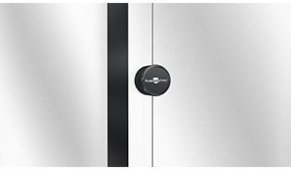
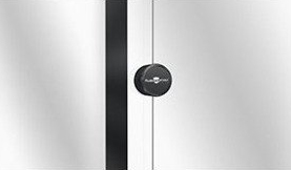
Update tiara-08-10 estetik topuz image and fix live broken link

diff --git a/app/urunler/[slug]/ProductClient.tsx b/app/urunler/[slug]/ProductClient.tsx
@@ -309,7 +309,7 @@ export const PRODUCT_DATA: any = {
         desc: 'Sistemde kanatların camlar ile birleşimi sadece kimyasallar ile değil, cama monte edilen pimler ile sağlanmaktadır. Bu sayede kanatlar, yüksek taşıma kapasitesine sahip olurlar.'
       },
       {
-        img: '/images/tiara-08-10/Tiara-Estetik-Topuzlu-Kilit.jpg',
+        img: '/images/tekcamlı-katlanir/estetik_topuz.png',
         title: 'Estetik Topuzlu Kilit',
         desc: 'Albert Genau isteğe bağlı olarak topuzlu kilit mekanizması tasarlamıştır. Bu mekanizma şık bir görüntü, minimal tasarım ve kullanım kolaylığı sağlamaktadır.'
       }